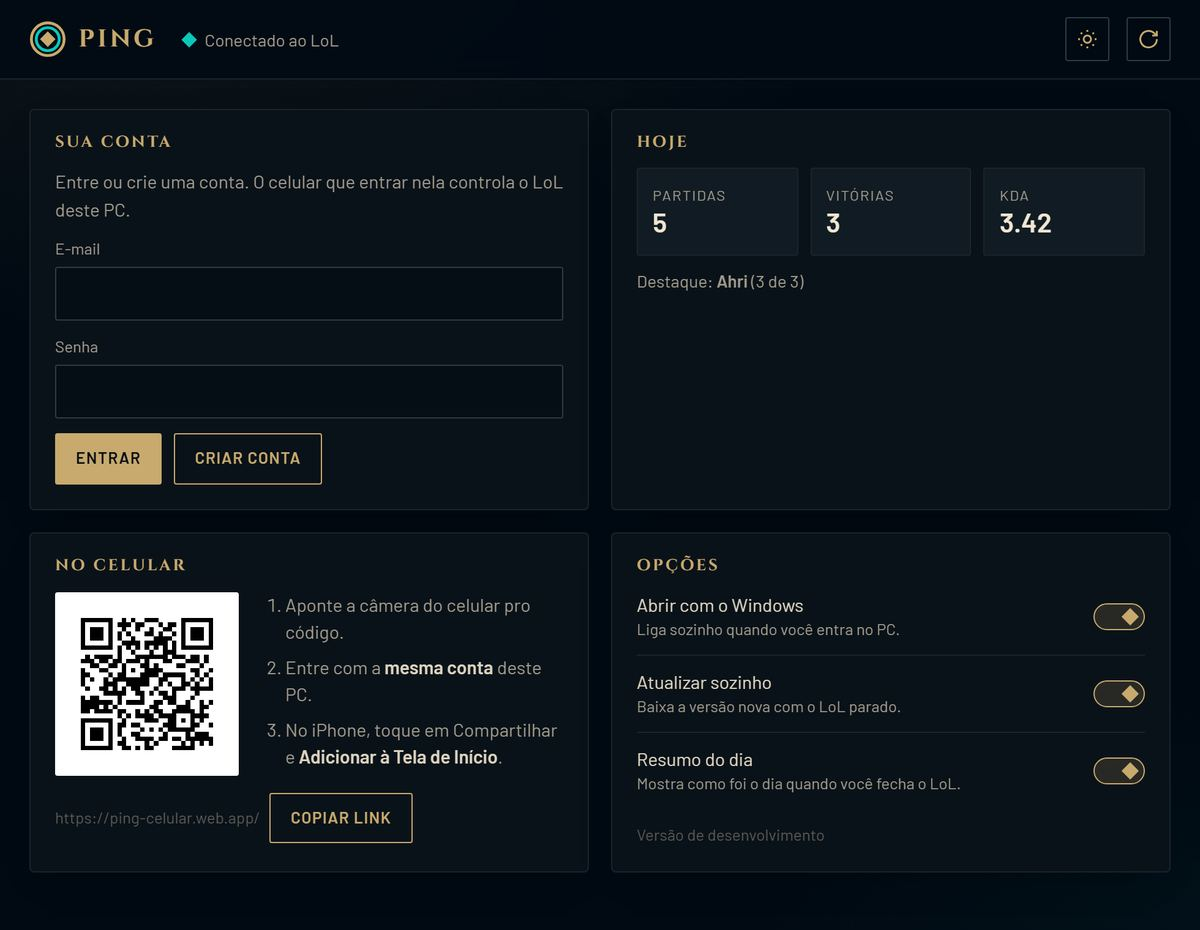
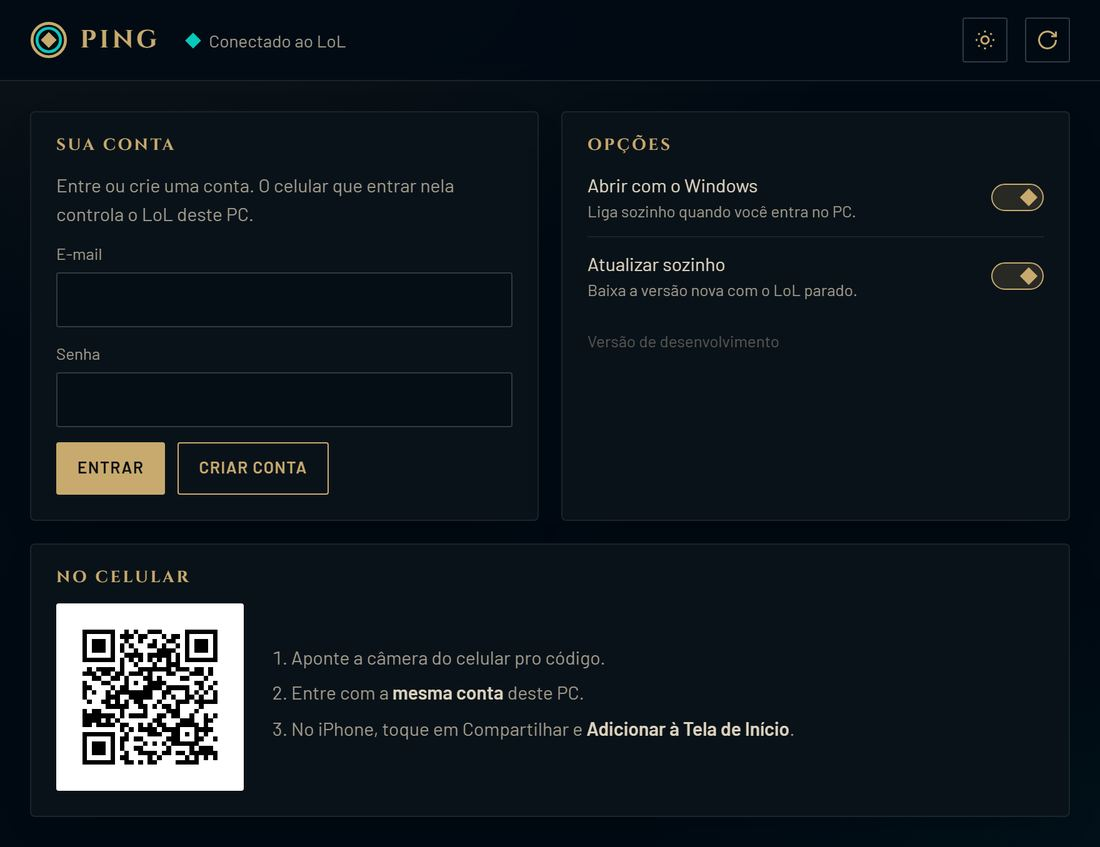
refactor: janela do PC só com conta, opções e QR do celular

diff --git a/pc/ui/index.html b/pc/ui/index.html
@@ -111,10 +111,10 @@ main { max-width: 980px; margin: 0 auto; padding: 24px; display: grid; grid-temp
   box-shadow: 0 10px 30px -18px var(--sombra);
   opacity: 0; transform: translateY(8px); animation: entra .5s var(--ease-out) forwards;
 }
-/* grade 2x2: os dois cards de cada linha ficam da mesma altura */
+/* linha 1: conta e opcoes da mesma altura; linha 2: celular na largura toda */
+#cardCelular { grid-column: 1 / -1; }
 .card:nth-child(2) { animation-delay: .06s; }
 .card:nth-child(3) { animation-delay: .12s; }
-.card:nth-child(4) { animation-delay: .18s; }
 @keyframes entra { to { opacity: 1; transform: none; } }
 .card h2 { margin: 0 0 14px; font: 700 13px/1 var(--titulo); letter-spacing: .14em; text-transform: uppercase; color: var(--gold); }
 .card p { margin: 0 0 12px; color: var(--muted); }
@@ -153,14 +153,6 @@ input:focus { border-color: var(--gold); box-shadow: 0 0 0 3px color-mix(in srgb
 ol.passos { margin: 0; padding-left: 20px; color: var(--muted); }
 ol.passos li { margin-bottom: 6px; }
 ol.passos b { color: var(--text); font-weight: 600; }
-.link { margin-top: 12px; display: flex; gap: 8px; align-items: center; font-size: 13px; color: var(--faint); overflow-wrap: anywhere; }
-
-/* hoje */
-.numeros { display: grid; grid-template-columns: repeat(3, 1fr); gap: 10px; }
-.numero { background: var(--panel-2); border: 1px solid var(--line); border-radius: var(--r1); padding: 12px; }
-.numero small { display: block; color: var(--muted); font-size: 12px; text-transform: uppercase; letter-spacing: .08em; }
-.numero b { font: 600 22px/1.2 var(--fonte); color: var(--gold-hi); }
-.mvp { margin-top: 10px; color: var(--muted); font-size: 14px; }
 
 /* opcoes */
 .opcao { display: flex; align-items: center; gap: 12px; padding: 10px 0; border-top: 1px solid var(--line); }
@@ -190,9 +182,8 @@ ol.passos b { color: var(--text); font-weight: 600; }
 
 @media (max-width: 760px) {
   main { grid-template-columns: 1fr; padding: 16px; }
-  #cardCelular { order: 1; }
-  #cardHoje { order: 2; }
-  #cardOpcoes { order: 3; }
+  #cardCelular { order: 1; grid-column: auto; }
+  #cardOpcoes { order: 2; }
   header { padding: 12px 16px; }
   .qr { flex-direction: column; align-items: flex-start; }
   .status span { display: none; }
@@ -228,9 +219,10 @@ ol.passos b { color: var(--text); font-weight: 600; }
     <h2>Sua conta</h2>
     <div id="conta"></div>
   </section>
-  <section class="card" id="cardHoje">
-    <h2>Hoje</h2>
-    <div id="hoje"><p class="vazio">Carregando...</p></div>
+  <section class="card" id="cardOpcoes">
+    <h2>Opções</h2>
+    <div id="opcoes"></div>
+    <div class="versao" id="versao"></div>
   </section>
   <section class="card" id="cardCelular">
     <h2>No celular</h2>
@@ -242,12 +234,6 @@ ol.passos b { color: var(--text); font-weight: 600; }
         <li>No iPhone, toque em Compartilhar e <b>Adicionar à Tela de Início</b>.</li>
       </ol>
     </div>
-    <div class="link"><span id="link"></span><button class="btn" id="copiar">Copiar link</button></div>
-  </section>
-  <section class="card" id="cardOpcoes">
-    <h2>Opções</h2>
-    <div id="opcoes"></div>
-    <div class="versao" id="versao"></div>
   </section>
 </main>
 
@@ -321,34 +307,12 @@ async function carregarConta() {
   const c = await api("/api/conta");
   desenharConta(c);
   $("#qr").innerHTML = c.qr.svg;
-  $("#link").textContent = c.qr.url;
-  $("#copiar").onclick = async () => {
-    try { await navigator.clipboard.writeText(c.qr.url); toast("Link copiado"); } catch (e) { toast("Não consegui copiar"); }
-  };
-}
-
-// ---------- hoje ----------
-async function carregarHoje() {
-  try {
-    const h = await api("/api/hoje");
-    const r = h.resumo;
-    if (!r) { $("#hoje").innerHTML = `<p class="vazio">Nenhuma partida hoje ainda.</p>`; return; }
-    $("#hoje").innerHTML = `<div class="numeros">
-        <div class="numero"><small>Partidas</small><b>${r.partidas}</b></div>
-        <div class="numero"><small>Vitórias</small><b>${r.vitorias}</b></div>
-        <div class="numero"><small>KDA</small><b>${r.kda.toFixed(2)}</b></div>
-      </div>
-      <div class="mvp">Destaque: <b>${esc(r.mvp.nome)}</b> (${r.mvp.vitorias} de ${r.mvp.partidas})</div>`;
-  } catch (e) {
-    $("#hoje").innerHTML = `<p class="vazio">Abra o LoL pra ver o resumo do dia.</p>`;
-  }
 }
 
 // ---------- opcoes ----------
 const OPCOES = [
   ["abrir_com_windows", "Abrir com o Windows", "Liga sozinho quando você entra no PC."],
   ["atualizar_sozinho", "Atualizar sozinho", "Baixa a versão nova com o LoL parado."],
-  ["resumo_dia", "Resumo do dia", "Mostra como foi o dia quando você fecha o LoL."],
 ];
 function desenharOpcoes(o) {
   $("#opcoes").innerHTML = OPCOES.map(([k, nome, dica]) => `<div class="opcao">
@@ -423,10 +387,8 @@ new ResizeObserver(() => { clearTimeout(ajusteAgendado); ajusteAgendado = setTim
 
 carregarConta().catch((e) => toast(e.message));
 api("/api/opcoes").then(desenharOpcoes).catch(() => {});
-carregarHoje();
 pulso();
 setInterval(pulso, 3000);
-setInterval(carregarHoje, 60000);
 </script>
 </body>
 </html>

diff --git a/pc/hoje.py b/pc/hoje.py
@@ -94,15 +94,6 @@ def texto_resumo(r):
             f" · KDA {r['kda']:.2f} · MVP: {r['mvp']['nome']}")
 
 
-def painel():
-    """Resumo do dia pro painel: do historico do client se estiver aberto, senao do cache."""
-    h = lcu.historico()
-    jogos = atualizar_hoje(h["jogos"]) if h.get("jogos") is not None else jogos_de_hoje_cache()
-    return {"resumo": resumo(jogos, nomes_campeoes()), "jogos": len(jogos)}
-
-
-# ---------------- loop ----------------
-
 def rodar(notificar=None):
     """Roda numa thread da bandeja. notificar(titulo, texto) mostra aviso do Windows."""
     conectado_antes, ultima_fase = False, None

diff --git a/pc/painel.py b/pc/painel.py
@@ -128,9 +128,6 @@ class Handler(BaseHTTPRequestHandler):
                 return self._enviar(200, conta())
             if u.path == "/api/opcoes":
                 return self._enviar(200, opcoes())
-            if u.path == "/api/hoje":
-                import hoje
-                return self._enviar(200, hoje.painel())
             if u.path == "/logo.ico":
                 return self._enviar(200, (BASE / "ping.ico").read_bytes(), "image/x-icon", cache=True)
             return self._enviar(404, {"erro": "nao encontrado"})

diff --git a/pc/lcu.py b/pc/lcu.py
@@ -65,7 +65,7 @@ def runas_validas(r):
 
 # ---------------- config ----------------
 
-OPCOES = ("abrir_com_windows", "atualizar_sozinho", "resumo_dia")  # todas ligadas por padrao
+OPCOES = ("abrir_com_windows", "atualizar_sozinho")  # todas ligadas por padrao
 
 
 def config():

diff --git a/README.md b/README.md
@@ -64,7 +64,7 @@ E mais:
 
 <picture>
   <source media="(prefers-color-scheme: light)" srcset="docs/painel-claro.jpg">
-  <img src="docs/painel.jpg" width="620" alt="Janela do Ping no PC com a conta, o QR code do celular, o resumo de hoje e as opções">
+  <img src="docs/painel.jpg" width="620" alt="Janela do Ping no PC com a conta, as opções e o QR code do celular">
 </picture>
 
 ## No celular
